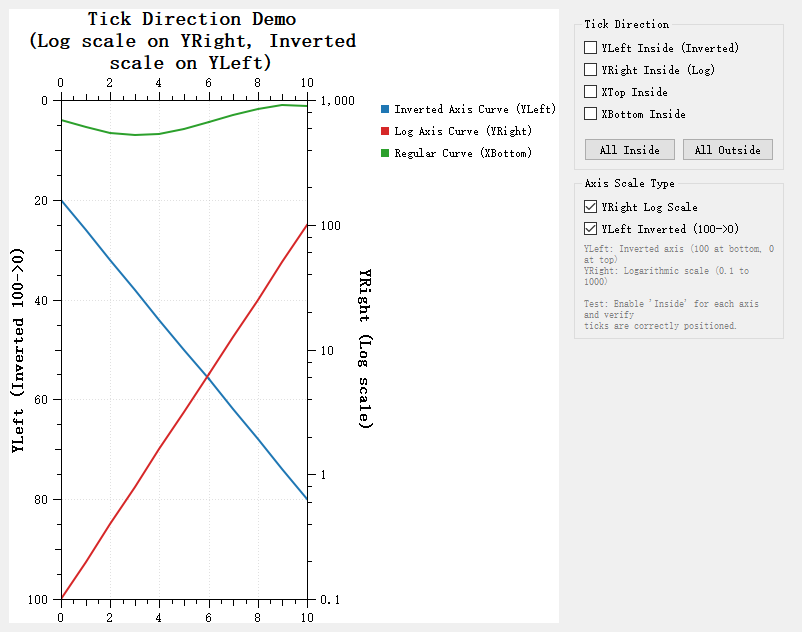
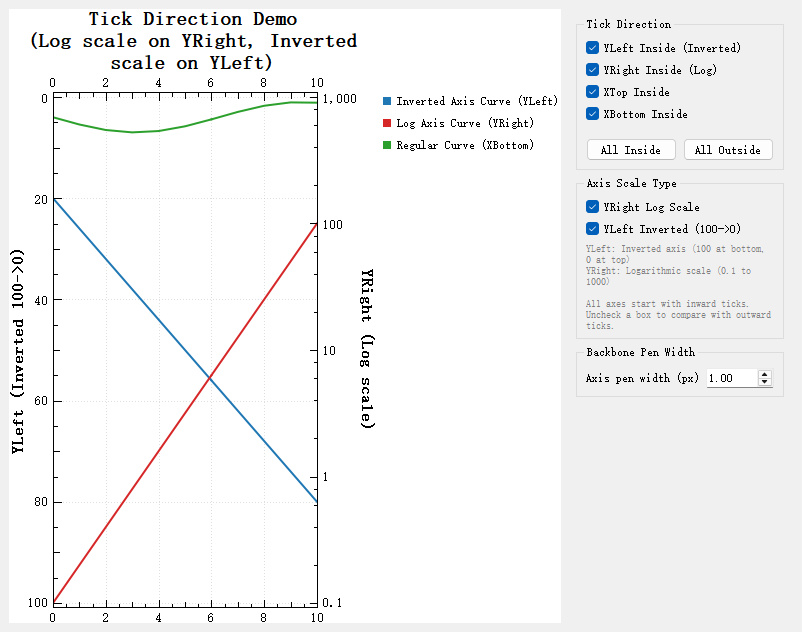
feat(ticks_inside): open with inward ticks on all axes
- Set XBottom, XTop, YLeft and YRight to QwtPlot::TickInside in
  setupPlot() and check the four direction boxes, so the window and the
  documentation screenshots show the feature without user interaction.
- Keep the screenshot at 802x632 by shortening the pen width label.
- Use QOverload<double>::of() for QDoubleSpinBox::valueChanged, which is
  overloaded in Qt 5, so the example builds with the supported Qt 5.
- Regenerate docs/assets/screenshots/ticks_inside.png and document the
  new default in the EN/ZH guide and changelog.

diff --git a/examples/2D/ticks_inside/MainWindow.cpp b/examples/2D/ticks_inside/MainWindow.cpp
@@ -59,6 +59,13 @@ void MainWindow::setupPlot()
     m_plot->setAxisVisible(QwtAxis::XTop, true);
     m_plot->setAxisVisible(QwtAxis::XBottom, true);
 
+    // Default: every axis draws its ticks inward. This example is the visual
+    // reference of the feature in the README and the documentation, so the
+    // window ( and its screenshots ) show inside ticks without user input.
+    const QwtAxisId axes[] = { QwtAxis::XBottom, QwtAxis::XTop, QwtAxis::YLeft, QwtAxis::YRight };
+    for ( QwtAxisId axisId : axes )
+        m_plot->setAxisTickDirection( axisId, QwtPlot::TickInside );
+
     // YLeft: Inverted scale (100 -> 0, values decrease upward)
     m_plot->setAxisScale(QwtAxis::YLeft, 100.0, 0.0);
     m_plot->setAxisTitle(QwtAxis::YLeft, "YLeft (Inverted 100->0)");
@@ -142,6 +149,13 @@ QWidget* MainWindow::createControlPanel()
     m_chkXTop    = new QCheckBox("XTop Inside", this);
     m_chkXBottom = new QCheckBox("XBottom Inside", this);
 
+    // setupPlot() starts all axes with inside ticks; the boxes are set before
+    // the signals are connected, so this only reflects the initial state
+    m_chkYLeft->setChecked(true);
+    m_chkYRight->setChecked(true);
+    m_chkXTop->setChecked(true);
+    m_chkXBottom->setChecked(true);
+
     tickLayout->addWidget(m_chkYLeft);
     tickLayout->addWidget(m_chkYRight);
     tickLayout->addWidget(m_chkXTop);
@@ -176,8 +190,8 @@ QWidget* MainWindow::createControlPanel()
         "YLeft: Inverted axis (100 at bottom, 0 at top)\n"
         "YRight: Logarithmic scale (0.1 to 1000)\n"
         "\n"
-        "Test: Enable 'Inside' for each axis and verify\n"
-        "ticks are correctly positioned.", this);
+        "All axes start with inward ticks.\n"
+        "Uncheck a box to compare with outward ticks.", this);
     infoLabel->setWordWrap(true);
     infoLabel->setStyleSheet("QLabel { color: gray; font-size: 10px; }");
     axisLayout->addWidget(infoLabel);
@@ -188,7 +202,7 @@ QWidget* MainWindow::createControlPanel()
     QGroupBox* penGroup = new QGroupBox("Backbone Pen Width", this);
     QHBoxLayout* penLayout = new QHBoxLayout(penGroup);
 
-    penLayout->addWidget(new QLabel("Axis pen width (device pixels)", this));
+    penLayout->addWidget(new QLabel("Axis pen width (px)", this));
 
     m_spinPenWidth = new QDoubleSpinBox(this);
     m_spinPenWidth->setRange(0.5, 3.0);
@@ -210,7 +224,8 @@ QWidget* MainWindow::createControlPanel()
     connect(btnAllOutside, &QPushButton::clicked, this, &MainWindow::onAllOutsideClicked);
     connect(m_chkLogYRight, &QCheckBox::toggled, this, &MainWindow::onLogYRightToggled);
     connect(m_chkInvertedYLeft, &QCheckBox::toggled, this, &MainWindow::onInvertedYLeftToggled);
-    connect(m_spinPenWidth, &QDoubleSpinBox::valueChanged, this, &MainWindow::onPenWidthChanged);
+    connect(m_spinPenWidth, QOverload<double>::of(&QDoubleSpinBox::valueChanged),
+            this, &MainWindow::onPenWidthChanged);
 
     return panel;
 }

diff --git a/CHANGES.md b/CHANGES.md
@@ -2,6 +2,9 @@
 
 ### New Features
 
+- **`examples/2D/ticks_inside`: all axes start with inward ticks**
+    - `XBottom`, `XTop`, `YLeft` and `YRight` are set to `QwtPlot::TickInside` when the example opens, so the window - and the documentation screenshot regenerated from it - shows the feature right away instead of the library default `TickOutside`. The four checkboxes start checked; unchecking one, or pressing `All Outside`, still switches it back for comparison
+    - `docs/assets/screenshots/ticks_inside.png` regenerated from the new default
 - **Two drag preview modes for the retained grid of `QwtFigure`**
     - `QwtFigureGridSplitter::setDragPreviewMode()` selects how the members follow a divider while it is dragged. `BoundaryLine` (the default) only moves a virtual boundary line while the mouse is down and applies the new track ratios once, on release: the members are neither relaid out nor repainted during the drag and a whole drag costs a single layout pass. `Live` applies the ratios on every mouse move, runs the synchronous layout pass and replots the members, so the plots really follow the divider at the cost of a layout and replot per move. `dragPreviewMode()` reports the mode; changing it cancels a running drag
     - The line of the default mode is a thin strip above the members (`setBoundaryLinePen()` / `boundaryLinePen()`, a two pixel dashed blue line by default) that follows the clamped divider position, spans the whole figure and stays aligned when the figure is resized mid-drag. `Qt::NoPen` hides the line and keeps the commit-on-release behaviour
@@ -11,6 +14,8 @@
 
 ### Bug Fixes
 
+- **`examples/2D/ticks_inside` builds with Qt 5**
+    - `QDoubleSpinBox::valueChanged` is overloaded in Qt 5 (`double` and `QString`), so the unqualified pointer-to-member connection of the backbone pen width control did not compile with the Qt 5 versions the project supports. The connection now uses `QOverload<double>::of()`
 - **Dragging a divider of the retained grid no longer leaves ghosting artifacts**
     - The splitter suspended the repaints of every grid member (`setUpdatesEnabled(false)`) while it resized the tracks on every mouse move. Qt then kept showing stale pixels of the moved members - the ghosting and tearing of heavy members such as a spectrogram. The repaint suspension is gone: the default `BoundaryLine` preview does not touch the member geometry during the drag at all, and the `Live` preview keeps the members painting and replots them on every move. The behavior is covered by `testMemberRepaintsStayEnabledWhileDragging()`
     - The old in-between behavior (layout changes without repaints) is gone, so `sizesChanged()` is only continuous in `Live` mode; hosts that need a live preview must select `QwtFigureGridSplitter::Live`, the default boundary preview emits it once on release

diff --git a/CHANGES-CN.md b/CHANGES-CN.md
@@ -2,6 +2,9 @@
 
 ### 新功能
 
+- **`examples/2D/ticks_inside`：打开时所有坐标轴默认刻度朝内**
+    - 示例打开时把 `XBottom`、`XTop`、`YLeft`、`YRight` 设为 `QwtPlot::TickInside`，因此窗口以及由它重新生成的文档截图能直接展示该特性，而不是库默认的 `TickOutside`。四个复选框默认为勾选；取消勾选或点击 `All Outside` 仍可切回朝外做对比
+    - 重新生成了 `docs/assets/screenshots/ticks_inside.png`
 - **`QwtFigure` 保留式网格的两种拖动预览模式**
     - `QwtFigureGridSplitter::setDragPreviewMode()` 选择拖动分隔条时成员如何跟随。`BoundaryLine`（默认）在鼠标按下期间只移动一条虚拟边界线，新比例在松手时一次性生效：拖动过程中成员既不重排也不重绘，整次拖动只花一次布局。`Live` 在每次鼠标移动时应用比例、执行同步布局并重绘，绘图真正跟随分隔条，代价是每次移动都要做一次布局和重绘。`dragPreviewMode()` 查询当前模式；拖动过程中切换模式会取消当前拖动
     - 默认模式的线条是成员上方的一条窄条（`setBoundaryLinePen()` / `boundaryLinePen()`，默认为两像素蓝色虚线），跟随被夹取的分隔条位置、贯穿整个 figure，并在拖动中 figure 尺寸变化时保持对齐；把画笔设为 `Qt::NoPen` 只会隐藏线条，松手生效的行为不变
@@ -11,6 +14,8 @@
 
 ### Bug 修复
 
+- **`examples/2D/ticks_inside` 重新支持 Qt 5 编译**
+    - Qt 5 的 `QDoubleSpinBox::valueChanged` 是重载信号（`double` 和 `QString`），轴线笔宽控件原先使用未消歧的成员函数指针连接，在项目支持的 Qt 5 版本下无法编译。现改用 `QOverload<double>::of()`
 - **拖动保留式网格的分隔条不再产生重影**
     - 分隔条在每次鼠标移动重排轨道的同时，用 `setUpdatesEnabled(false)` 暂停了所有网格成员的重绘。Qt 因此持续显示被移动成员的旧像素——这就是频谱图等重成员出现重影和撕裂的原因。重绘暂停已移除：默认的 `BoundaryLine` 预览在拖动期间完全不碰成员的几何，`Live` 预览则让成员持续重绘并在每次移动后重绘整幅图。该行为由 `testMemberRepaintsStayEnabledWhileDragging()` 覆盖
     - 原先「只改布局不重绘」的中间状态不复存在，因此 `sizesChanged()` 只在 `Live` 模式下连续发出；需要实时预览的宿主应显式选择 `QwtFigureGridSplitter::Live`，默认的边界线预览只在松手时发出一次

diff --git a/docs/use-guide/2d/ticks-inside.md b/docs/use-guide/2d/ticks-inside.md
@@ -145,6 +145,7 @@ plot->replot();
 > - Independent control of four axes
 > - Real-time tick direction switching
 > - Batch setting functionality
+> - All four axes already set to inward ticks when the window opens
 
 ## References
 

diff --git a/docs/zh/use-guide/2d/ticks-inside.md b/docs/zh/use-guide/2d/ticks-inside.md
@@ -145,6 +145,7 @@ plot->replot();
 > - 四个坐标轴独立控制
 > - 实时切换刻度方向
 > - 批量设置功能
+> - 打开窗口时四个坐标轴已全部设为刻度朝内
 
 ## 参考资料
 
